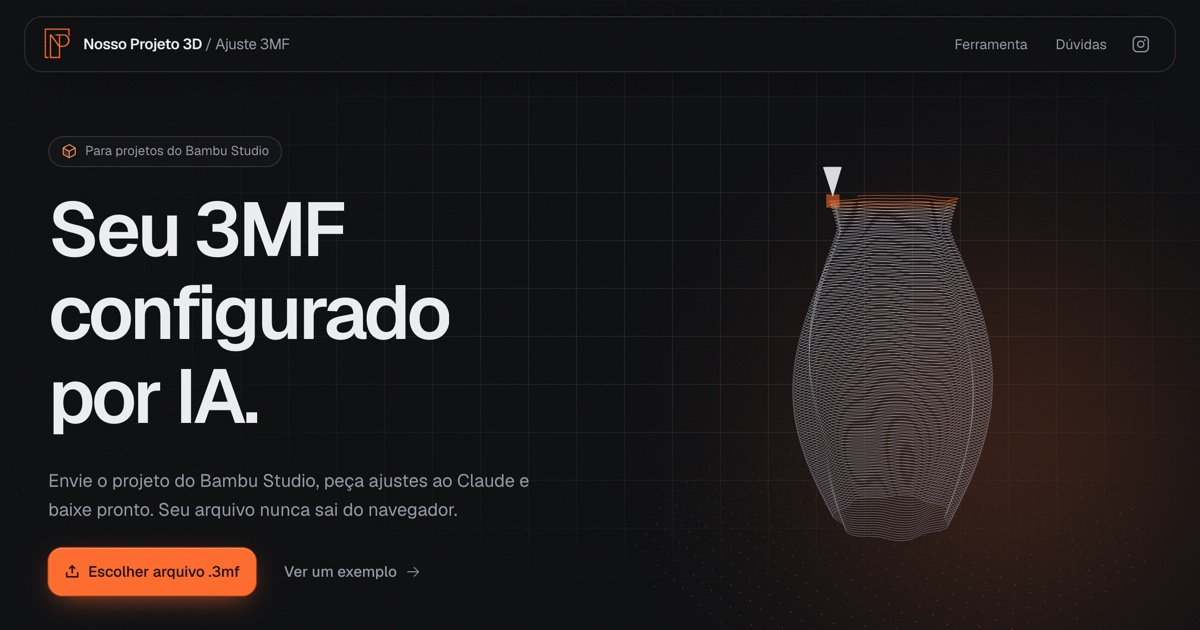
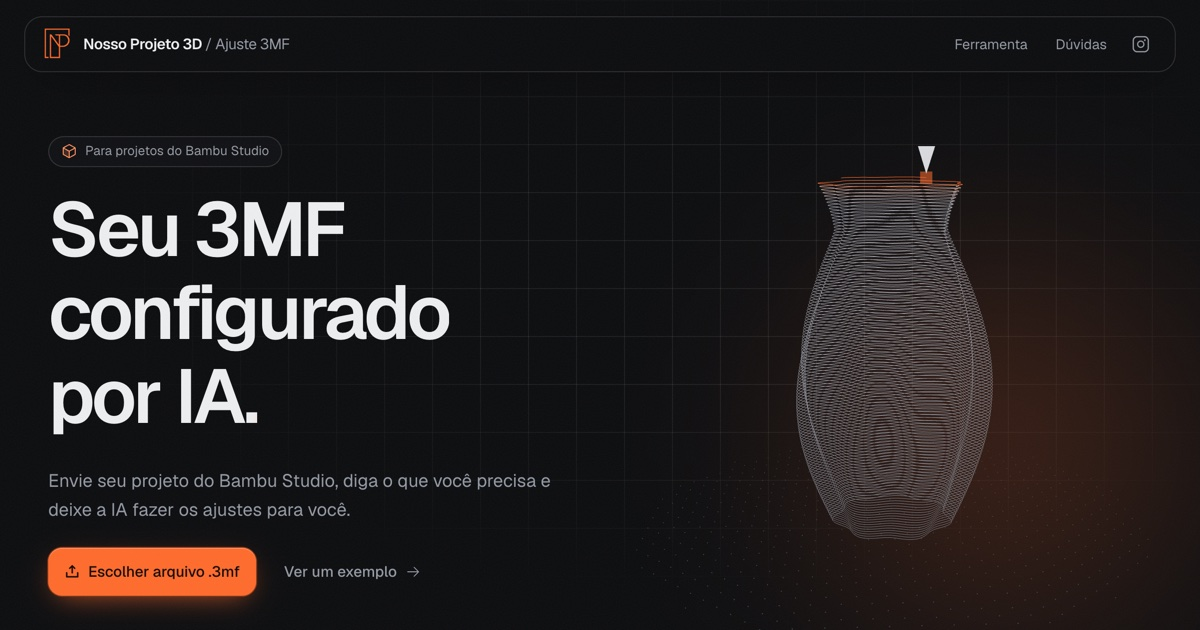
Trocar o texto de apresentação do topo

Changed region(s): [[0.6475, 0.2413, 0.8325, 0.8746], [0.0617, 0.754, 0.4625, 0.8444], [0.0308, 0.7841, 0.0617, 0.8143]]

diff --git a/src/App.tsx b/src/App.tsx
@@ -599,7 +599,7 @@ export default function App() {
                   transition={{ duration: 0.7, delay: 0.45, ease: EASE }}
                   className="max-w-[44ch] text-lg leading-relaxed text-muted-foreground"
                 >
-                  Envie o projeto do Bambu Studio, peça ajustes ao Claude e baixe pronto. Seu arquivo nunca sai do navegador.
+                  Envie seu projeto do Bambu Studio, diga o que você precisa e deixe a IA fazer os ajustes para você.
                 </m.p>
                 <m.div
                   initial={{ opacity: 0, y: 12 }}
